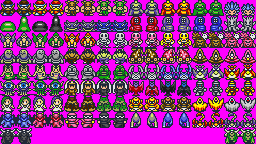
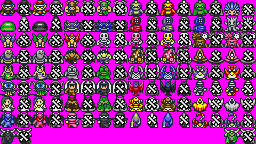
Monster can die. When they do, their graphic tile changes. They can no longer have turns, and you can now walk through them.

diff --git a/MainGame.cpp b/MainGame.cpp
@@ -69,9 +69,8 @@ MainGame::MainGame(int newX, int newY, int newW, int newH) : Screen(newX,newY,ne
 void MainGame::init()
 {
 
-	mainCharacter->setSpeed(400); //SPEED FOR DEBUGGING
+	mainCharacter->setSpeed(200); //SPEED FOR DEBUGGING
 	loadLevel();
-	//weapons = WeaponFactory::getAllWeapons();
 	numPlayers = numEnemies+1;
 
 	gameMap.loadGraphics(level->graphics, level->alphaR, level->alphaG, level->alphaB);
@@ -139,6 +138,20 @@ void MainGame::nextTurn()
 	if(currentPlayer != NULL)
 		playOrder.push(currentPlayer);
 
+	// check if any dead players are in the queue
+	Character *tempPlayer = NULL;
+	int numPlayers = playOrder.size();
+	for(int i=0;i<numPlayers;i++)
+	{
+		tempPlayer = playOrder.front();
+		playOrder.pop();
+
+		// only return living characters to the play order queue
+		if(!tempPlayer->isDead())
+			playOrder.push(tempPlayer);
+	}
+
+
 	currentPlayer = playOrder.front();
 	playOrder.pop();
 
@@ -166,7 +179,7 @@ bool MainGame::isTileOccupied(int xCoord, int yCoord)
 	if(xCoord == mainCharacter->x && yCoord == mainCharacter->y)
 		return true;
 	for(int i=0;i<numEnemies;i++)
-		if(xCoord == enemies[i].x && yCoord == enemies[i].y)
+		if(xCoord == enemies[i].x && yCoord == enemies[i].y && !enemies[i].isDead())
 			return true;
 	for(int i=0;i<numTreasure;i++)
 		if(xCoord == treasure[i]->x && yCoord == treasure[i]->y)
@@ -295,7 +308,7 @@ void MainGame::loadLevel()
 			enemies[5] = Monster(33,20,14,0,monsterGraphics,Monster::GOBLIN,2);
 			enemies[6] = Monster(6,14,8,1,monsterGraphics,Monster::LIZARD,1);
 			enemies[7] = Monster(29,15,8,1,monsterGraphics,Monster::LIZARD,1);
-			enemies[8] = Monster(23,3,1,4,monsterGraphics,Monster::MEDUSA,6);
+			enemies[8] = Monster(23,3,0,4,monsterGraphics,Monster::MEDUSA,6);
 
 			// initialize all treasure and its locations
 			numTreasure = 8;
@@ -397,13 +410,13 @@ void MainGame::paint()
 		paintInfoPanel();
 	}
 
-	paintObject(mainCharacter);
-
 	for(int i=0;i<numEnemies;i++)
 		paintObject(&enemies[i]);
 
 	for(int i=0;i<numTreasure;i++)
 		paintObject(treasure[i]);
+
+	paintObject(mainCharacter);
 
 	if(state == STATE_SHOP)
 	{
@@ -525,7 +538,7 @@ void MainGame::paintInfoPanel()
 		applySurface(x+INFO_PANEL_X,y+INFO_PANEL_Y+TILE_SIZE*2,msgInfo[1],screen);
 		applySurface(x+INFO_PANEL_X+msgInfo[1]->w,y+INFO_PANEL_Y+TILE_SIZE*2,msgCustomInfo[1],screen);
 
-		if(inRange(selectedEnemy,mainCharacter->getWeaponRange()) && !attackedThisRound)
+		if(inRange(selectedEnemy,mainCharacter->getWeaponRange()) && !attackedThisRound && !selectedEnemy->isDead())
 			controlBtns[0].paint();
 	}
 	controlBtns[1].paint();

diff --git a/Sprites.cpp b/Sprites.cpp
@@ -115,7 +115,10 @@ void Character::setAllModifiers(int str, int dex, int con, int ite, int wis, int
 }
 void Character::setHp(int hp){
 	if (hp <= 0)
+	{
 		this->hp = 0;
+		died();
+	}
 	else
 		this->hp = hp;
 }
@@ -206,6 +209,20 @@ void Character::showCharacter() {
 		<< "CHA: " << getCha() << ", Mod: " << getChaMod() << "\n"
 		<< "SPEED: " << getSpeed() << "\n"
 		<< "HP: " << getHp() << "\n";
+}
+
+void Character::died()
+{
+	if(isDead())
+	{
+		std::cout << name << " has dies.\n";
+		speed = 0;
+	}
+}
+
+bool Character::isDead()
+{
+	return (hp < 1);
 }
 
 
@@ -708,6 +725,15 @@ void Monster::setDamageDiceType(int diceType) {
 
 int Monster::getDamageDiceType() {
 	return damageDiceType;
+}
+
+void Monster::died()
+{
+	if(isDead())
+	{
+		Character::died();
+		clip->x += TILE_SIZE;
+	}
 }
 
 

diff --git a/Sprites.h b/Sprites.h
@@ -72,7 +72,7 @@ protected:
 
 	static const int FIGHTER = 0;
 	static const int RANGER = 1;
-
+	virtual void died();
 
 public:
 
@@ -120,6 +120,7 @@ public:
 	virtual int getAC();
 	virtual int rollWeaponDamage(int);
 	int getSpeed();
+	bool isDead();
 
 	// accessors for modifiers
 	int getStrMod();
@@ -192,6 +193,9 @@ class Monster : public Character
 private:
 
 	int damageDiceType;
+
+protected:
+	void died();
 
 public:
 

diff --git a/Game.cpp b/Game.cpp
@@ -111,7 +111,7 @@ void stateTransition()
 int main( int argc, char* args[] ) 
 {
 	// Initialize the SDL library 
-	if( SDL_Init( SDL_INIT_EVERYTHING ) == -1 ) 
+	if( SDL_Init( SDL_INIT_TIMER | SDL_INIT_AUDIO | SDL_INIT_VIDEO ) == -1 ) 
 	{ 
 		return 1; 
 	} 
